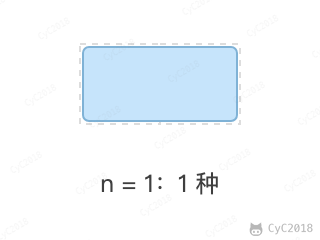
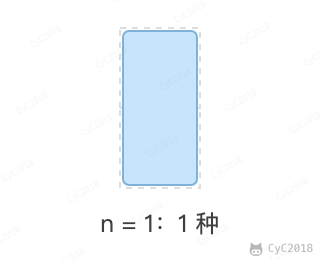
Update 10.2 矩形覆盖.md
更新矩形覆盖递推思路的文字说明，补充最左侧放置方式的推导细节，重新绘制配图 rect-cover-n1.png。

diff --git a/notes/10.2 矩形覆盖.md b/notes/10.2 矩形覆盖.md
@@ -16,7 +16,7 @@
 
 <div align="center"> <img src="pics/rect-cover-n2.png" width="260px"/> </div><br>
 
-要覆盖 2\*n 的大矩形，可以先覆盖 2\*1 的矩形，再覆盖 2\*(n-1) 的矩形；或者先覆盖 2\*2 的矩形，再覆盖 2\*(n-2) 的矩形。而覆盖 2\*(n-1) 和 2\*(n-2) 的矩形可以看成子问题。该问题的递推公式如下：
+要覆盖 2\*n 的大矩形，看最左边一列怎么放：竖着放一块，占满第一列，剩下 2\*(n-1) 的矩形；横着放一块，它下面只能再横着放一块，两块占满前两列，剩下 2\*(n-2) 的矩形。两种放法互不重复，而覆盖 2\*(n-1) 和 2\*(n-2) 的矩形可以看成子问题。该问题的递推公式如下：
 
 <div align="center"> <img src="pics/rect-cover-formula.png" width="400px"/> </div><br>
 
